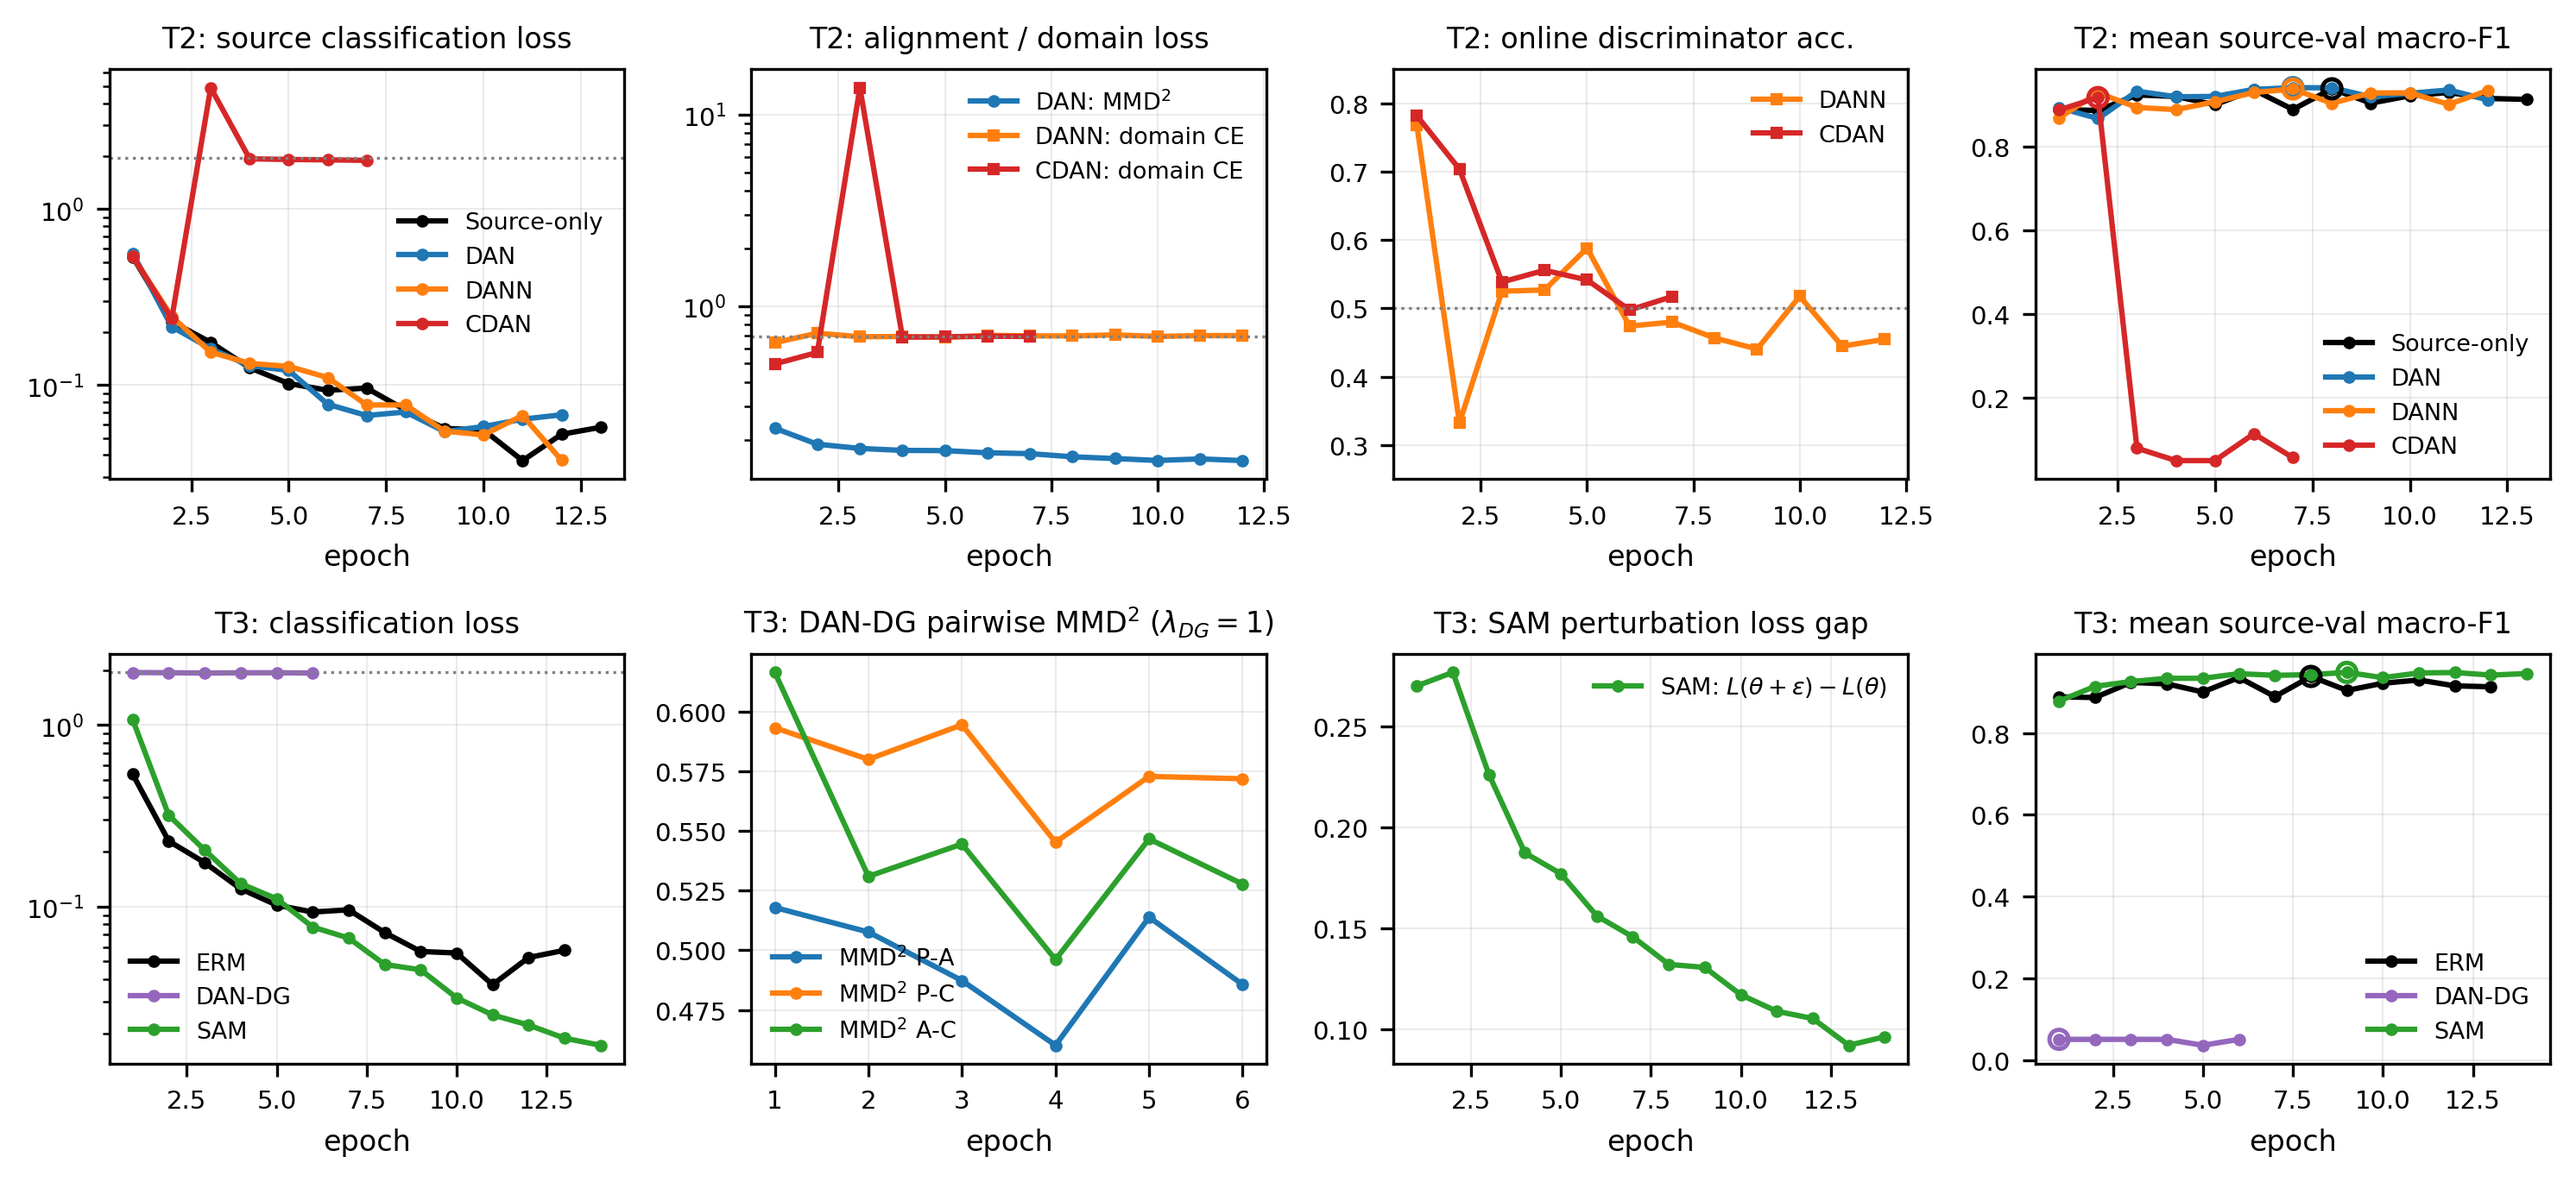
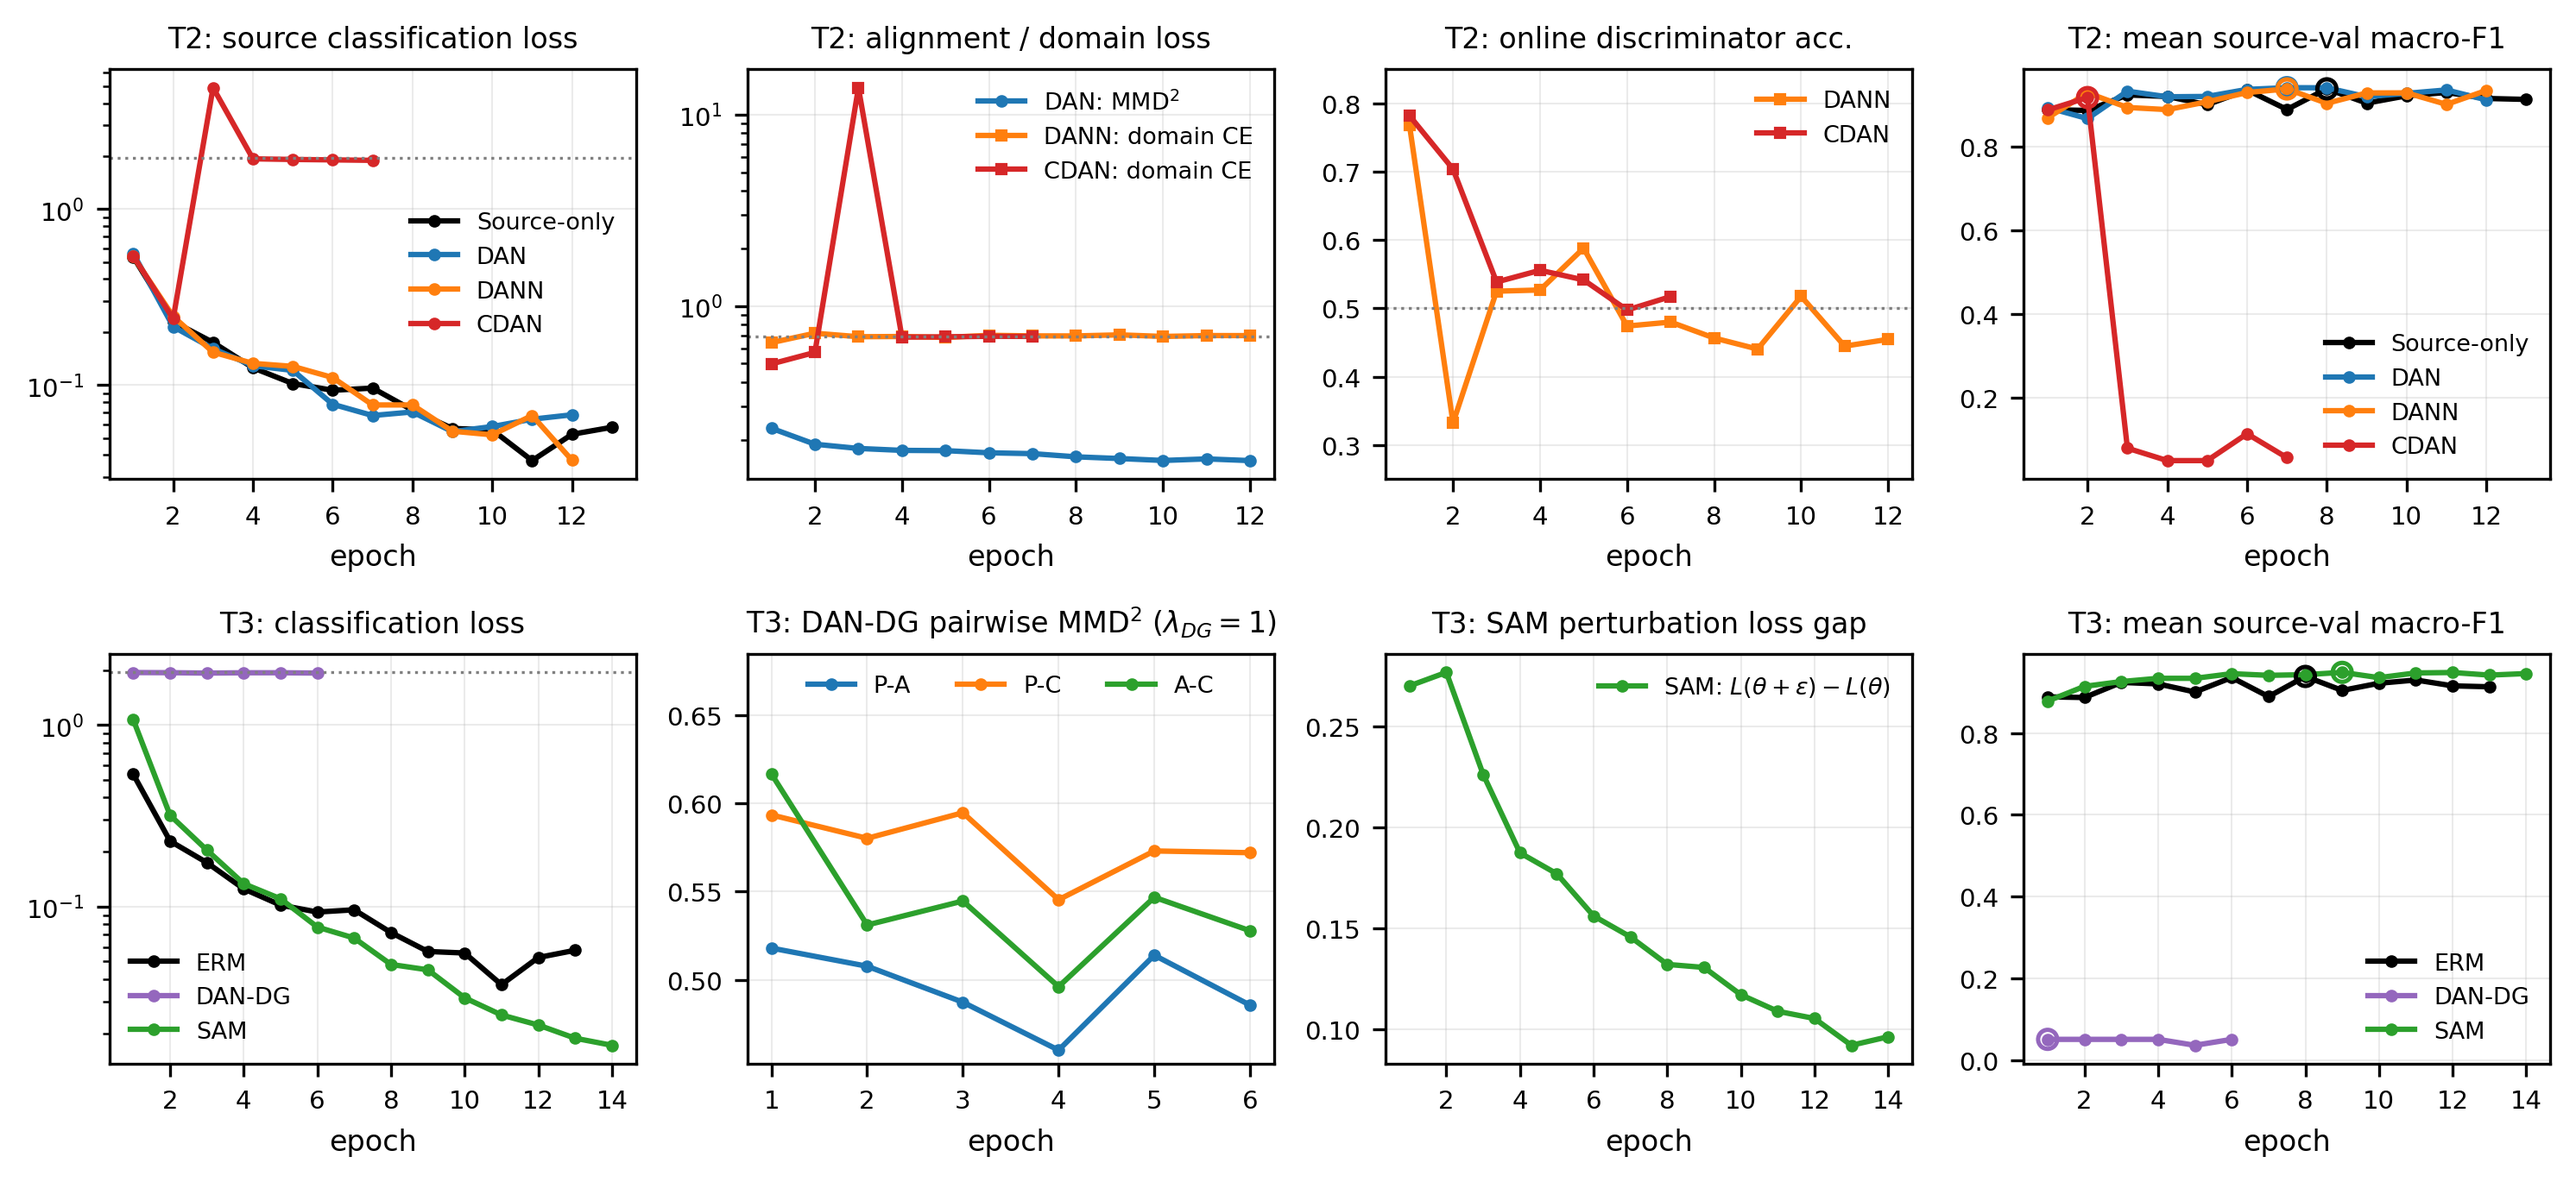
make pacs curve more compact

diff --git a/report/make_cue_conflict_dis_compact.py b/report/make_cue_conflict_dis_compact.py
@@ -1,0 +1,50 @@
+"""
+Compact, print-legible version of the Task 1 cue-conflict disagreement figure.
+
+The original report/figures/cue_conflict_disagreement.png (written by
+task1/notebooks/03_shape_texture.ipynb) has 8-pt labels on a 12.6-inch-wide
+canvas, so they become unreadable once the figure is shrunk to fit beside
+Table 2. This script reuses the SAME three stylized images (cropped from that
+PNG) and the SAME predictions (task1/results/cue_conflict_examples.json), and
+redraws the labels at a size meant for ~3.3 inches of print width.
+
+No model is run. From the repo root:
+    python report/make_cue_conflict_panel.py
+Writes report/figures/cue_conflict_disagreement_compact.png
+"""
+import json
+from pathlib import Path
+
+import numpy as np
+import matplotlib.pyplot as plt
+from PIL import Image
+
+ROOT = Path(__file__).resolve().parents[1]
+SRC = ROOT / "report" / "figures" / "cue_conflict_disagreement.png"
+EX = ROOT / "task1" / "results" / "cue_conflict_examples.json"
+OUT = ROOT / "report" / "figures" / "cue_conflict_disagreement_compact.png"
+
+img = np.asarray(Image.open(SRC).convert("RGB"))
+nonwhite = img.min(axis=2) < 235
+rows = np.flatnonzero(nonwhite.sum(1) > 0.5 * img.shape[1])      # rows crossing all 3 images
+r0, r1 = rows.min(), rows.max() + 1
+on = nonwhite[r0:r1].sum(0) > 0.5 * (r1 - r0)
+edges = np.flatnonzero(np.diff(on.astype(int))) + 1                # [start, end, start, end, ...]
+boxes = list(zip(edges[0::2], edges[1::2]))
+assert len(boxes) == 3, f"expected 3 images, found {len(boxes)}"
+
+examples = json.load(open(EX))["examples"]["disagreement"]
+NAMES = {"resnet50": "ResNet", "vit_b16": "ViT", "clip_head": "CLIP head", "clip_zeroshot": "CLIP z.-s."}
+TAG = {"shape": "S", "texture": "T", "other": "O"}
+
+plt.rcParams.update({"font.size": 6.5, "font.family": "monospace"})
+fig, axes = plt.subplots(1, 3, figsize=(3.4, 1.75))
+for ax, (c0, c1), ex in zip(axes, boxes, examples):
+    ax.imshow(img[r0:r1, c0:c1])
+    ax.set_xticks([]); ax.set_yticks([])
+    lines = [f"{NAMES[m]:<10}{p['predicted']:>9} {TAG[p['verdict']]}" for m, p in ex["predictions"].items()]
+    ax.set_xlabel("\n".join(lines), fontsize=5.6, loc="left", labelpad=2)
+fig.subplots_adjust(left=0.01, right=0.99, top=0.99, bottom=0.30, wspace=0.08)
+OUT.parent.mkdir(parents=True, exist_ok=True)
+fig.savefig(OUT, dpi=400, bbox_inches="tight", pad_inches=0.01)
+print("saved", OUT)

diff --git a/report/make_pacs_curves.py b/report/make_pacs_curves.py
@@ -14,6 +14,7 @@ import math
 from pathlib import Path
 
 import matplotlib.pyplot as plt
+from matplotlib.ticker import MaxNLocator
 
 ROOT = Path(__file__).resolve().parents[1]
 OUT = ROOT / "report" / "figures" / "pacs_training_curves.png"
@@ -84,7 +85,7 @@ for lab, (p, c) in T3.items():
     mark_best(ax[1, 3], h, best, "mean_macro_f1", c)
     if lab == "DAN-DG":
         for k, name in (("mmd_pa", "P-A"), ("mmd_pc", "P-C"), ("mmd_ac", "A-C")):
-            ax[1, 1].plot(ep(h), [e[k] for e in h], "-o", ms=2.5, label=f"MMD$^2$ {name}")
+            ax[1, 1].plot(ep(h), [e[k] for e in h], "-o", ms=2.5, label=name)
     if lab == "SAM":
         ax[1, 2].plot(ep(h), [e["loss_gap"] for e in h], "-o", ms=2.5, c=c,
                       label="SAM: $L(\\theta+\\epsilon)-L(\\theta)$")
@@ -98,8 +99,14 @@ ax[1, 3].set_title("T3: mean source-val macro-F1")
 
 for a in ax.flat:
     a.set_xlabel("epoch")
+    a.xaxis.set_major_locator(MaxNLocator(integer=True))   # whole epochs only
     a.grid(alpha=0.25, lw=0.5)
     a.legend(frameon=False, loc="best")
+
+# DAN-DG panel: headroom + one-row legend so it cannot sit on the lines
+lo, hi = ax[1, 1].get_ylim()
+ax[1, 1].set_ylim(lo, hi + 0.35 * (hi - lo))
+ax[1, 1].legend(frameon=False, loc="upper center", ncol=3)
 
 fig.tight_layout()
 OUT.parent.mkdir(parents=True, exist_ok=True)
